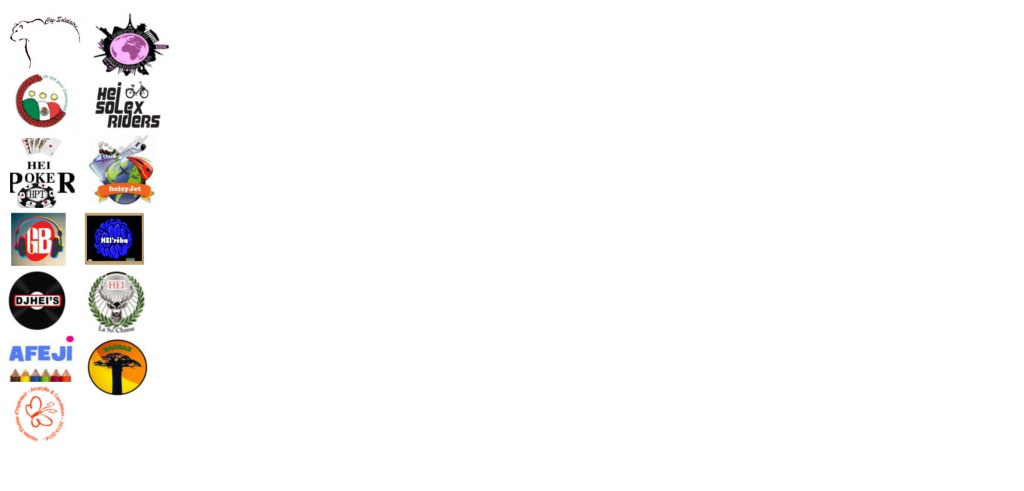
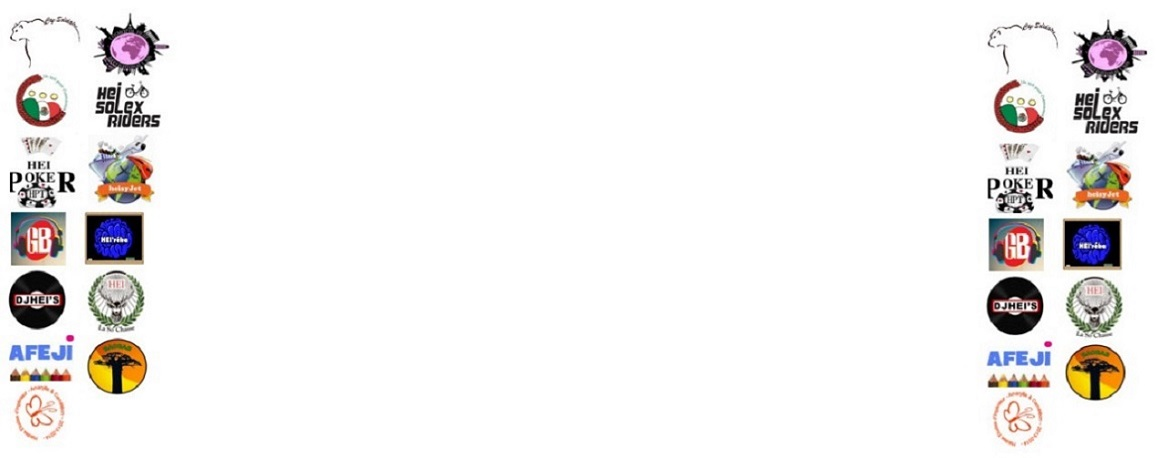
Résolution des pb de css et d'affichage

diff --git a/projetEtude/src/main/webapp/css/calendrier1.css b/projetEtude/src/main/webapp/css/calendrier1.css
@@ -15,7 +15,7 @@ body
 {
 font-family: "Arial", sans-serif, 1em;
 background-image: url(../img/test2.jpg);
-background-size: 1080px auto;
+background-size: 1280px auto;
 margin-bottom: 50px;
 }
 nav li
@@ -31,13 +31,14 @@ nav#navigation
 {
 position : relative;
 top : 10px;
-left : 170px;
+left:170px;
 width:900px;
 background : #7F7764;
 text-align : center;
 color : #FFEEC9;
 height : 50px;
 box-shadow : 0px 10px 5px 0px #A9A9A9;
+margin:0px;
 }
 nav a
 {
@@ -47,7 +48,7 @@ aside.deconnexion
 {
 position:relative;
 top:25px;
-left:950px;
+left: 950px;
 width:100px;
 background-color:red;
 text-align:center;
@@ -70,6 +71,8 @@ section h2
 {
 position: relative;
 left: 200px;
+width:300px;
+margin:20px 0px 20px 0px;
 }
 section.table h2
 {
@@ -143,6 +146,7 @@ position: relative;
 margin:20px;
 top:-70px;
 left:400px;
+width:400px;
 }
 article p#description
 {
@@ -166,6 +170,7 @@ form#ajout
 position: relative;
 top:-225px;
 left:725px;
+width:100px;
 }
 input#idEvent
 {

diff --git a/projetEtude/src/main/webapp/css/lesassos.css b/projetEtude/src/main/webapp/css/lesassos.css
@@ -15,7 +15,7 @@ body
 {
 font-family: "Arial", sans-serif, 1em;
 background-image: url(../img/test2.jpg);
-background-size: 1080px auto;
+background-size: 1280px auto;
 margin-bottom: 100px;
 }
 

diff --git a/projetEtude/src/main/webapp/css/mesoptions.css b/projetEtude/src/main/webapp/css/mesoptions.css
@@ -15,7 +15,7 @@ body
 {
 font-family: "Arial", sans-serif, 1em;
 background-image: url(../img/test2.jpg);
-background-size: 1080px auto;
+background-size: 1280px auto;
 margin-bottom: 50px;
 }
 
